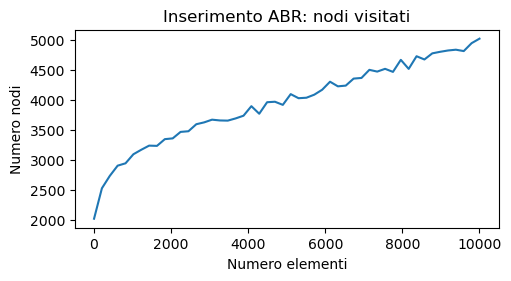
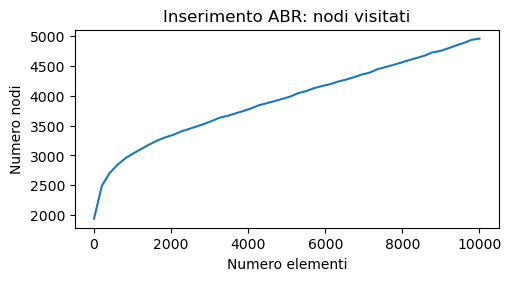
update

diff --git a/labAlgoritmi_es1/labAlgoritmi_BTree/main.py b/labAlgoritmi_es1/labAlgoritmi_BTree/main.py
@@ -142,7 +142,7 @@ def main():
 
         t1 = 70
         t2 = 250
-        t3 = 500
+        t3 = 1000
         array_test = np.random.randint(0, 1000, 10000)
         my_btree1 = BTree(t1)
         my_btree2 = BTree(t2)
